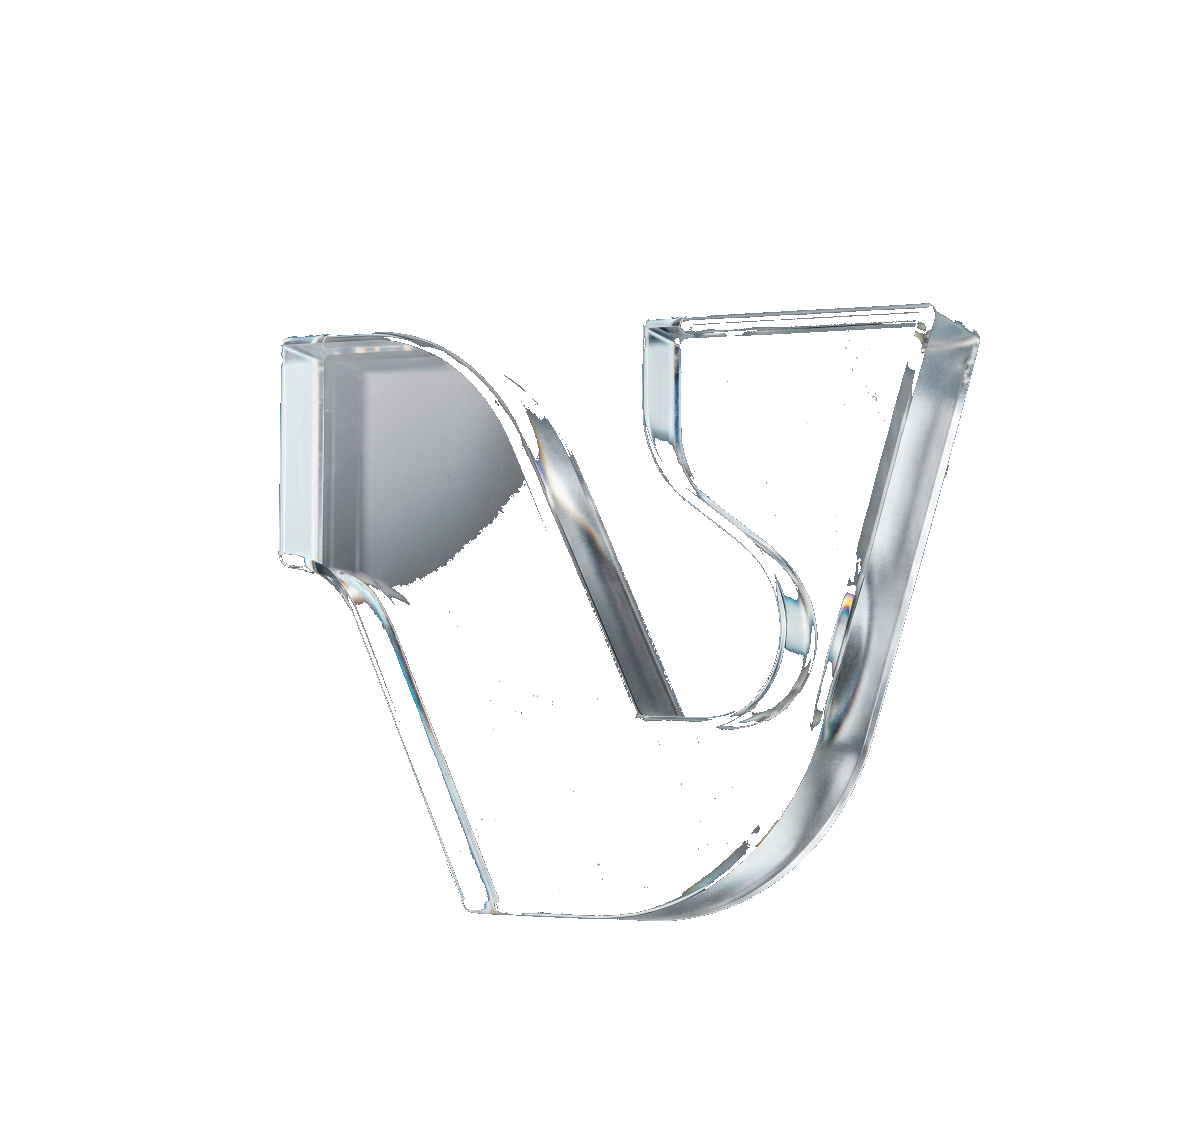
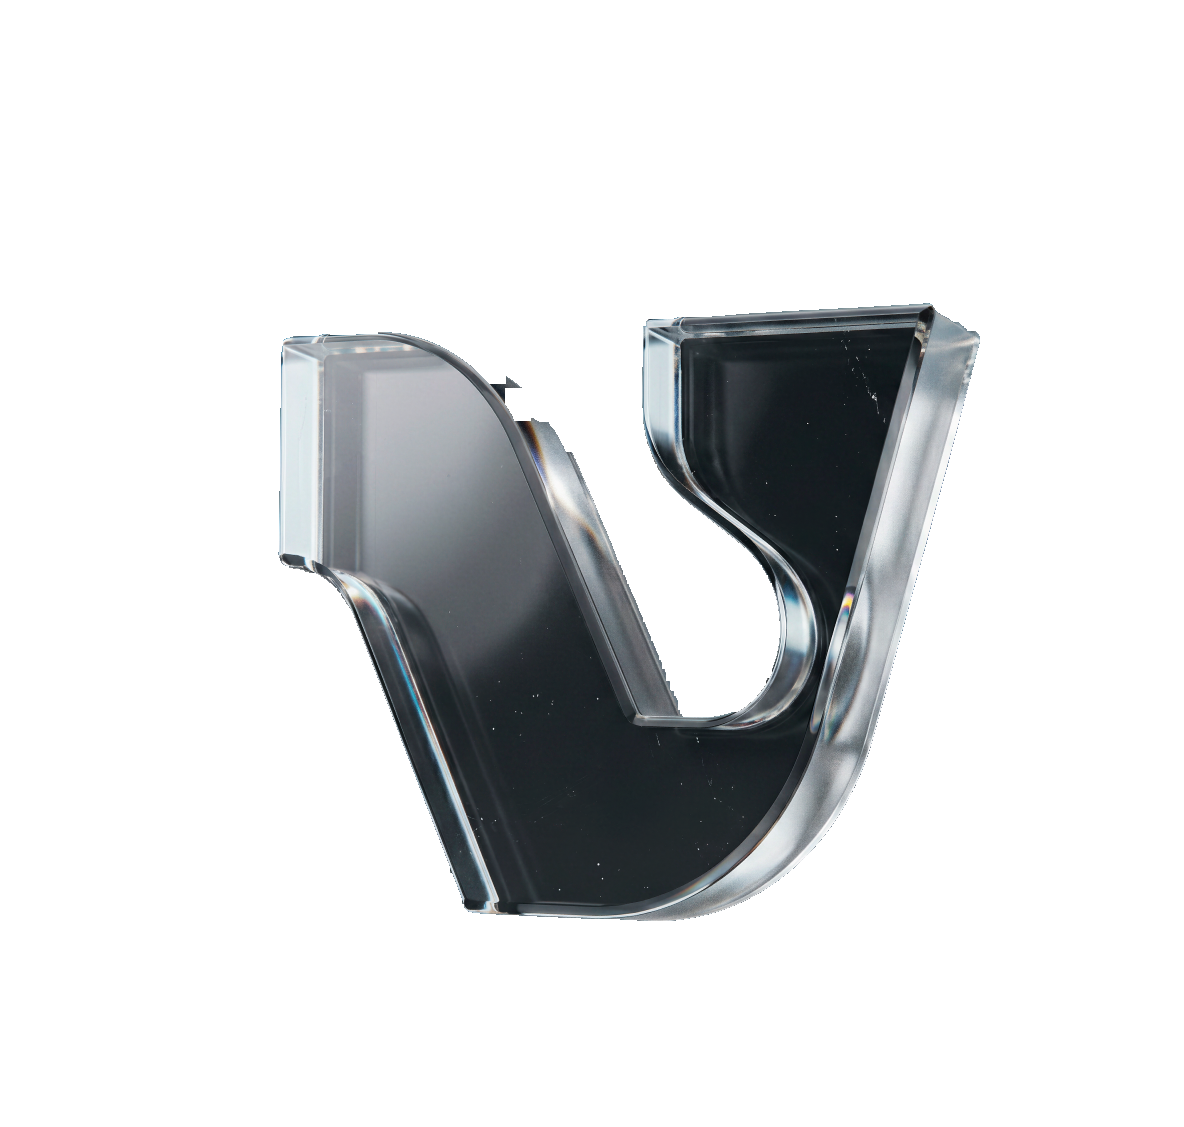
fix(login): tema claro mantém o V intacto (preto por dentro), só o fundo externo branco
Regenera venice-v-cut.png usando as bordas brilhantes do cristal como barreira
(fechamento + preenchimento do interior): só o fundo FORA do V é removido; o corpo do
cristal (escuro por dentro) fica intacto, como no dark. Volta ao enquadramento bleed
(mesmo tamanho do dark) nos dois temas.

Changed region(s): [[0.2812, 0.2484, 0.8125, 0.8385], [0.375, 0.3106, 0.4062, 0.3416]]

diff --git a/src/components/LoginScreen.tsx b/src/components/LoginScreen.tsx
@@ -91,35 +91,23 @@ export const LoginScreen: React.FC<Props> = ({ onSuccess }) => {
       </div>
 
       {/* ── Lado hero (marca Venice) — "V" de vidro ──
-         DARK: render original (#000) com HARD_LIGHT (o vidro escuro brilha sobre o preto),
-         enquadrado em bleed. LIGHT: usa o asset recortado (venice-v-cut.png — fundo removido
-         por flood-fill), o cristal centralizado e flutuando no branco. */}
+         Mesmo enquadramento (bleed) nos dois temas. DARK: render original sobre #000 com
+         HARD_LIGHT (o vidro escuro brilha no preto). LIGHT: asset recortado (venice-v-cut.png —
+         só o fundo FORA do V foi removido; o V fica intacto, preto por dentro) sobre branco. */}
       <div style={{
         flex: 1, position: 'relative', overflow: 'hidden',
         background: dark ? '#000' : '#fff', isolation: 'isolate',
-        display: 'flex', alignItems: 'center', justifyContent: 'center',
       }}>
-        {dark ? (
-          <img
-            src="/venice-v-glass.png"
-            alt="Venice"
-            style={{
-              position: 'absolute', top: '-20%', left: '-6.2%',
-              width: '140.8%', height: '151.1%', objectFit: 'fill',
-              mixBlendMode: 'hard-light',
-              pointerEvents: 'none', userSelect: 'none',
-            }}
-          />
-        ) : (
-          <img
-            src="/venice-v-cut.png"
-            alt="Venice"
-            style={{
-              maxWidth: '78%', maxHeight: '78%', objectFit: 'contain',
-              pointerEvents: 'none', userSelect: 'none',
-            }}
-          />
-        )}
+        <img
+          src={dark ? '/venice-v-glass.png' : '/venice-v-cut.png'}
+          alt="Venice"
+          style={{
+            position: 'absolute', top: '-20%', left: '-6.2%',
+            width: '140.8%', height: '151.1%', objectFit: 'fill',
+            mixBlendMode: dark ? 'hard-light' : 'normal',
+            pointerEvents: 'none', userSelect: 'none',
+          }}
+        />
       </div>
     </div>
   );